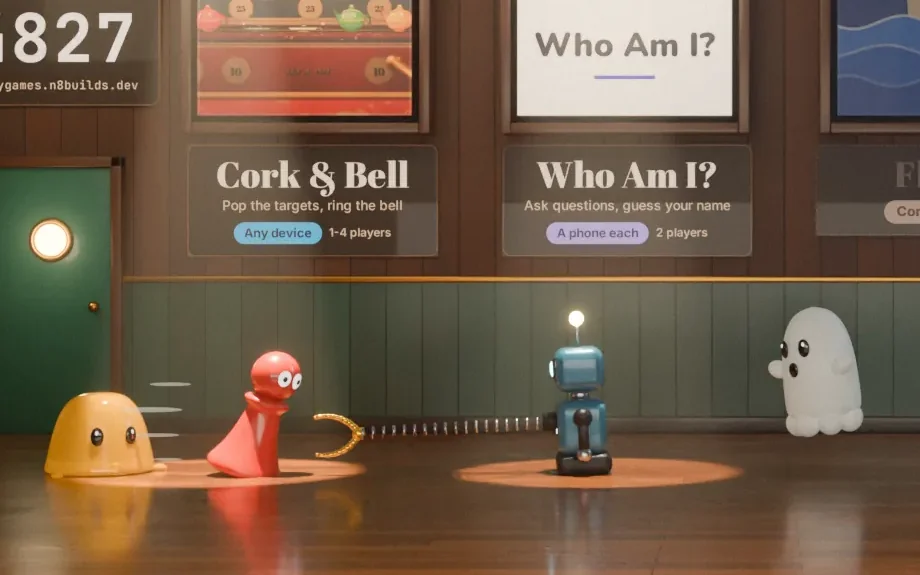
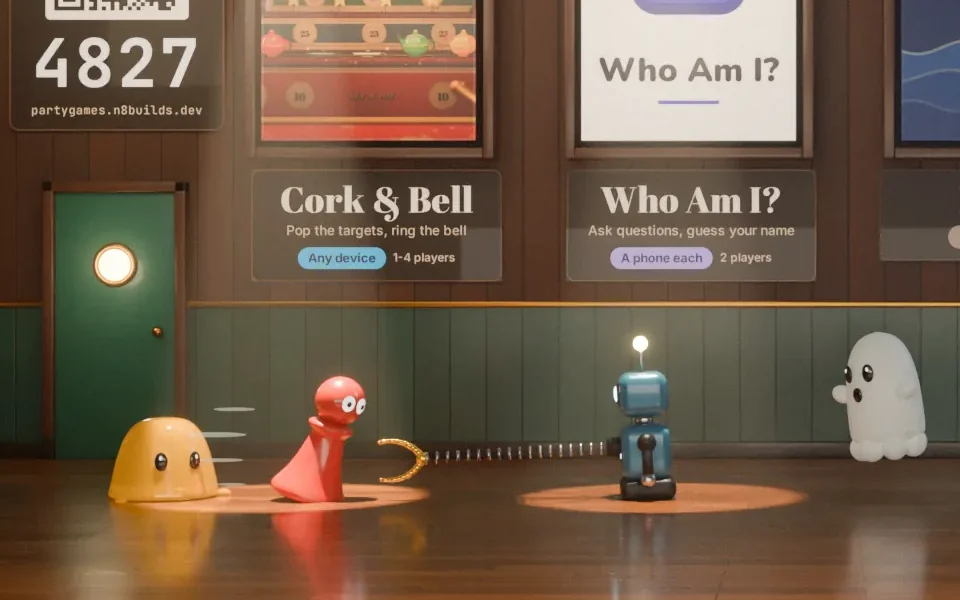
fix(games): the n8games picture fills its ad, and the card shows the join code whole
From 1024px the ad's picture takes the height of the words beside it, so
no strip shows under it. The close crop is wider (960x600, the site's card
size), so the join code and the address on the sign are no longer cut at
the edge. The build page's next games read as one card, and the owner's
decisions are recorded in docs/DECISIONS.md.

Release-note: skip

diff --git a/data/builds.tsx b/data/builds.tsx
@@ -582,7 +582,7 @@ images: [
             title: 'Read the contract',
             body: 'party-kit/GAME-CONTRACT.md says what a game exports: `game`, the rules the room runs, and `manifest`, what a site needs to host it. Cork & Bell is the first game that keeps it.',
             code: {
-              file: "Cork & Bell's manifest, as the contract shows it",
+              file: 'GAME-CONTRACT.md (excerpt)',
               href: 'https://github.com/n8watkins/n8-party-games/blob/main/party-kit/GAME-CONTRACT.md#what-the-package-exports',
               text: `export const manifest = {
   id: "cork-and-bell",
@@ -704,9 +704,9 @@ export const GAMES = [corkAndBell];`,
             body: 'A word chain by voice on one phone or computer passed around a group of 2 to 8. No server: the page is all there is.',
           },
           {
-            title: 'Tin Derby, Paper Masks, Who Am I?',
+            title: 'Next games',
             status: 'In progress',
-            body: 'Tin Derby for the room; Paper Masks and Who Am I? for the Table, which seats up to four today. Who Am I? plays on its own site meanwhile.',
+            body: 'Tin Derby, for the room. Paper Masks and Who Am I?, for the Table, which seats up to four today. Who Am I? plays on its own site meanwhile.',
           },
           {
             title: 'Pawn',

diff --git a/components/sections/N8gamesAd.tsx b/components/sections/N8gamesAd.tsx
@@ -41,7 +41,8 @@ export default function N8gamesAd({ id = 'n8games-ad', priority = false }: { id?
       aria-labelledby={headingId}
       className="grid overflow-hidden rounded-2xl border border-[#f0a24b]/25 bg-linear-to-br from-[#f0a24b]/[0.07] to-[#0a1222]/80 lg:grid-cols-[minmax(0,3fr)_minmax(0,2fr)]"
     >
-      <div className="relative aspect-16/10 overflow-hidden bg-[#140d08] sm:aspect-2/1">
+      {/* From 1024px the words sit beside it, so it takes their row's height (at least 2:1's) and covers it. */}
+      <div className="relative aspect-16/10 overflow-hidden bg-[#140d08] sm:aspect-2/1 lg:aspect-auto lg:min-h-[21rem]">
         <picture>
           <source media="(min-width: 640px)" srcSet={wide} sizes={sizes} />
           {/* next/image's own props (getImageProps), in a <picture> for the two crops. */}

diff --git a/data/n8games.ts b/data/n8games.ts
@@ -36,7 +36,7 @@ export const N8GAMES_AD = {
     /** The whole room, 2:1, from 640px. */
     wide: { src: '/games/n8games/room-wide.webp', width: 2000, height: 1000 },
     /** Cropped close on the pieces, 16:10, for phones (and the /games card). */
-    close: { src: '/games/n8games/room-action.webp', width: 920, height: 575 },
+    close: { src: '/games/n8games/room-action.webp', width: 960, height: 600 },
     alt: 'A rendered party room: a red pawn punches a robot with a boxing glove on a spring, a yellow slime zooms past and a white ghost looks on, under lamps and game posters, with the join code by the door.',
   },
 } as const

diff --git a/tests/e2e/build-pages.spec.ts b/tests/e2e/build-pages.spec.ts
@@ -201,7 +201,7 @@ test.describe('the n8games build page', () => {
     await page.goto('/builds/n8games')
     await expect(page).toHaveTitle('n8games | n8builds')
     await expect(page.getByRole('heading', { level: 1 })).toHaveText('n8games')
-    const play = page.getByRole('banner').getByRole('link', { name: /^Play n8games/ })
+    const play = page.getByRole('main').getByRole('link', { name: 'Play n8games (opens in a new tab)' })
     await expect(play).toHaveAttribute('href', 'https://partygames.n8builds.dev')
     await expect(page.getByRole('img', { name: /red pawn punches a robot/ }).first()).toBeVisible()
 

diff --git a/docs/DECISIONS.md b/docs/DECISIONS.md
@@ -613,6 +613,12 @@ Where these conflict with an older entry above, these win; the older entries are
   The games: Who Am I? (whoami.n8builds.dev), PortfolioRank Play (the face-off only; "guess the percentile" waits behind GAMES_V2, so the card says more modes are coming), and the homepage dino catch (`/#ai-kit`).
   Terminal Invaders was listed at first and removed the same day (owner, 2026-11-11): its repo is archived and it has nothing to play in a browser.
   Only playable games belong here; the page is static, linked from the footer's Lab column and in the sitemap, with its own share card (`/games/og.png`).
+- **n8games on n8builds.dev** (owner, 2026-11-16): the party games site is called n8games, at https://partygames.n8builds.dev today and games.n8builds.dev later; its address, build page and ad live in one file, `data/n8games.ts`.
+  The owner's render of the party room (the red pawn punching the robot with a boxing glove on a spring, from `landing/public/img/hero-2000.webp` in the public n8watkins/n8-party-games) is its picture everywhere here: "I wanted that image to be on n8builds.dev."
+  **The /games card** leads the list with the render cropped close on the pieces, with real alt text, and says what plays today (Cork & Bell in the room, Hot Potato on one device) and what is coming (Tin Derby in the room, Paper Masks and Who Am I? at the table); it links the build page ("Learn more"). Who Am I? keeps its own card.
+  **The ad** ("this should just be trying to sell people the idea to just explore ... the game stuff that I've been playing around with"): the render wide, one casual line, "Play" to the games site and "Learn more" to the build page, on the homepage (in the ads band after the Lab, before the portfolio ad; the placement is the agent's, for the owner to confirm) and at the top of /games. `N8GAMES_AD.show` switches both off.
+  **The build page** `/builds/n8games` (a stable address: the games site links back to it) is for developers, technical and plain ("it doesn't need to be like an advertisement"): how it works, how it is built, the path to make a game for the kit or take it, and where each game, piece and room stands, with short excerpts from the source and links to it. It is not a Lab row (`homepage: false`). Its claims come from the repository's `main` on 2026-11-16; Nick Saraev is credited as the repository credits him.
+  Build pages can carry `guides` (`BuildGuide` in `data/builds.tsx`, `components/builds/BuildGuides.tsx`): extra parts after "How it's built", as numbered steps or a grid of cards.
 - **Wren leaves the site, and four upcoming projects go unlisted** (owner, 2026-11-11).
   **Wren is removed from n8builds.dev** at the owner's request ("Wren should not be in my n8builds"): its Featured card, its build page, its row in the build log and its assets are gone, and the Wren entries above are history.
   Wren stays a featured project on the portfolio, so `/builds/wren` redirects permanently (308) to `https://portfolio.n8builds.dev/projects/wren` (`next.config.mjs`).
